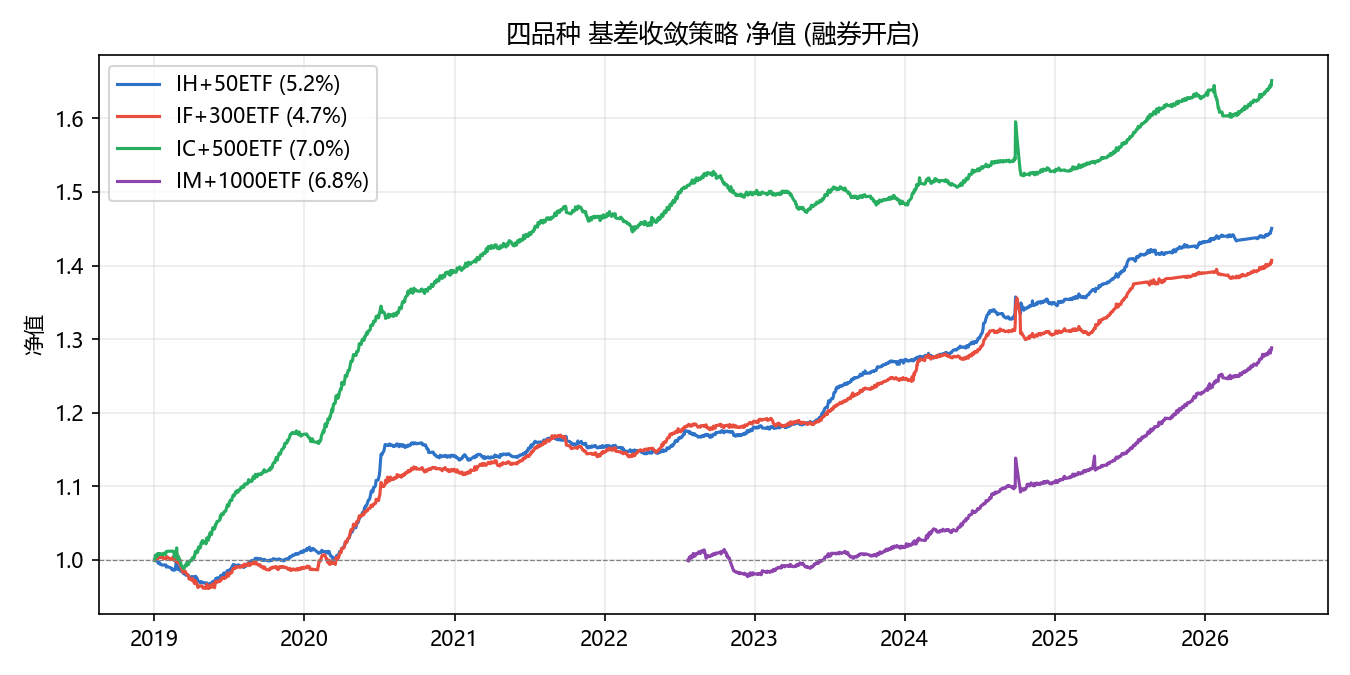
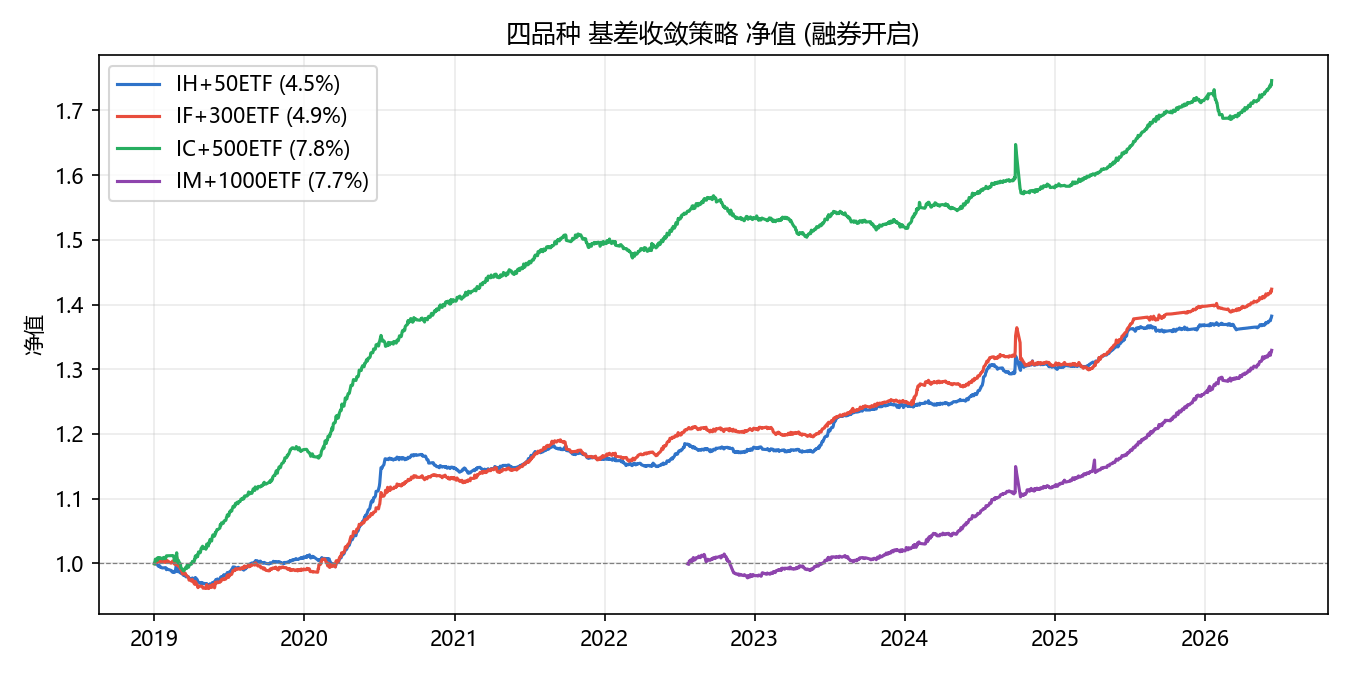
refactor: 分红不重复计(按实现季节) + README改用风险平价双语格式
- 修复分红双重计入: carry用原始基差, 分红仅通过ETF全收益腿按实际季节实现
- 分红调整年化基差仅用于入场信号, 不计入盈亏carry
- 结果: 复合5.3%/SR1.67/DD-3.2 (vs银河6.6/1.78/-3.4), 经济口径更干净
- README 改为中英双语 + emoji + 徽章格式(对齐 Relaxed-Risk-Parity 仓库)
- report.tex 数值同步更新(主表/动态表/§2.4分红说明)

diff --git a/track0_empirical/run_backtest.py b/track0_empirical/run_backtest.py
@@ -77,8 +77,11 @@ def _simulate(df: pd.DataFrame, pos: pd.Series) -> pd.Series:
     Idle capital earns rf (银河: 闲置保证金年化2%). ETF leg also picks up the
     small 折溢价/分红 excess. Costs charged on each position change.
     """
-    # Dividend-adjusted annualised basis rate (dte floored to tame the last week).
-    rate = df["basis"] / df["spot"] * 365.0 / df["dte"].clip(lower=7) + df["div_yield"]
+    # RAW annualised basis rate for the locked carry (dte floored for the last
+    # week). Dividends are NOT added here — they are realised seasonally through
+    # the ETF total-return leg (track term below), so the dividend-adjusted rate
+    # is used only for the *entry signal*, not double-counted in the P&L.
+    rate = df["basis"] / df["spot"] * 365.0 / df["dte"].clip(lower=7)
 
     # Trade-level LOCKED carry: 期现套利 pins the terminal value at delivery, so a
     # trade entered at rate r0 earns ~r0 annualised over its holding regardless of

diff --git a/README.md b/README.md
@@ -1,125 +1,203 @@
-# ETF–股指期货 期现基差套利复现 (ETF / Index-Futures Basis Arbitrage)
+<p align="center">
+  <a href="#简体中文">
+    <img src="https://img.shields.io/badge/LANGUAGE-中文-E74C3C?style=for-the-badge&labelColor=4B4B4B" alt="Language Chinese" />
+  </a>
+  <a href="#english">
+    <img src="https://img.shields.io/badge/LANGUAGE-ENGLISH-2D77D1?style=for-the-badge&labelColor=4B4B4B" alt="Language English" />
+  </a>
+</p>
 
-复现三篇卖方报告的期现基差套利框架，用 **tushare 真实 A 股数据** 做实证，并规划用
-**hftbacktest**（执行撮合）与 **Hummingbot**（部署节奏类比）做工具层验证。
-
-> 复现对象（互相印证的同一框架）：
-> - 东证期货《股指期货与ETF的基差套利》— 基差收敛 + 均值回归
-> - 银河期货《ETF期现套利策略》— 年化基差率历史分位数阈值、多品种复合
-> - 华泰柏瑞《沪深300ETF与股指期货套利》— 持有成本模型 / 无套利区间
->
-> **不复现** Avellaneda–Stoikov 做市（已在另一仓库完成，本课题为全新主题）。
-
----
-
-## 三条轨道
-
-| 轨道 | 引擎 | 数据 | 状态 |
-|------|------|------|------|
-| **Track 0** | 纯 Python 实证回测 | **tushare 真实 A 股**（ETF/指数/股指期货 日线+分钟） | ✅ 已跑通 |
-| Track A | hftbacktest 撮合执行 | 台内 L2（首选）/ 自录3秒快照 / 合成盘口 | 🔜 规划中 |
-| Track B | Hummingbot 现货–永续类比 | 免费 Binance 纸面交易 | 🔜 规划中 |
-
-工具硬约束（诚实写明）：Hummingbot 接不了 SSE/SZSE，A 股不可直连；免费可回溯的 A 股逐笔
-L2 基本不存在。故 Track 0（真实 A 股）是定量主体，Track A/B 是工具/机制验证。
+<p align="center">
+  <img src="https://img.shields.io/badge/DATA-tushare-FF6B35?style=for-the-badge" alt="tushare" />
+  <img src="https://img.shields.io/badge/MARKET-A股 ETF × 股指期货-2ECC71?style=for-the-badge" alt="market" />
+  <img src="https://img.shields.io/badge/LICENSE-MIT-9B59B6?style=for-the-badge" alt="MIT" />
+</p>
 
 ---
 
-## 快速开始
+<a id="简体中文"></a>
+
+## 简体中文
+
+### 当前语言：中文 | [Switch to English](#english)
+
+# ETF–股指期货 期现基差套利复现
+
+### 用真实 A 股数据复现东证 / 银河 / 华泰柏瑞的期现套利框架
+
+## 📌 项目概览
+
+本项目用 **tushare 真实 A 股数据**（上证50/沪深300/中证500/中证1000 四套股指期货
+及对应宽基 ETF，2019–2026）复现三篇卖方研究的**股指期货–ETF 期现基差套利**框架。
+
+核心结论一句话：
+
+> 期现套利赚的是「年化基差 + 分红 − 成本」，而**融券约束**决定 A 股能否真正执行。
+
+本仓库包含：
+
+- 📊 基差模型与三种交易信号（基差收敛 / 分位数阈值 / 均值回归）
+- 📈 四品种 + 多品种复合回测，对照报告数值
+- 🔁 两种执行情景：融券开启（复现报告）vs 融券受限（A 股现实）
+- 🎯 动态 ETF 选择（东证精修，按流动性/跟踪误差择优现货端）
+
+## 🧠 研究动机
+
+期现套利是中国市场最成熟的量化策略之一，但直接照搬报告数值会忽略两个关键点：
+
+- **分红基差**：高股息品种（上证50/沪深300）若不调整，原始 `F−S` 会系统性高估贴水
+- **融券约束**：A 股长期贴水，反向套利（做空 ETF）受融券券源制约，报告的正收益高度依赖融券资源
+
+## 🚀 核心方法
+
+```
+年化基差率   rate = (F − S)/S · 365/dte + 股息率        # 分红调整, 用于入场信号
+持有成本     F_theory = S·(1 + (r_f − d)·t/365)          # 银河/华泰柏瑞
+逐笔锁定carry 入场锁定原始基差, 平滑累计至收敛           # 复现高胜率/小回撤
+分红实现     通过 ETF 全收益腿按实际季节(6–7月)捕获      # 不与基差重复计
+```
+
+三种因果信号（无前视、滚动）：
+
+| 信号 | 出处 | 逻辑 |
+| ---- | ---- | ---- |
+| `conv` 基差收敛 | 银河 / 东证 | 升贴水超阈值入场，持有整段 regime |
+| `galaxy` 分位数 | 银河 | 年化基差率滚动历史分位数阈值 |
+| `orient` 均值回归 | 东证 | 年化基差率 z-score |
+
+## 🎯 动态 ETF 选择（东证精修）
+
+每月按 `z(流动性) − z(跟踪误差)` 在候选 ETF 池中择优现货端（IF/IC/IM 各 3–4 只候选）。
+效果：候选 ETF 分散度越大提升越明显——**IM（小盘）年化 7.7%→8.3%、夏普 1.67→1.86**，
+IF（同质）近中性，IH（仅 510050）无变化。
+
+## 📊 复现结果
+
+### 🔍 核心回测结果（融券开启，2019–2026，费后）
+
+| 品种 | conv 年化 | *报告* | 夏普 | 最大回撤 | 胜率 |
+| ---- | --------: | -----: | ---: | -------: | ---: |
+| IH+50ETF   | 4.5% | *3.8%* | 1.10 | −3.6% | 59% |
+| IF+300ETF  | 4.9% | *5.8%* | 1.12 | −4.8% | 62% |
+| IC+500ETF  | 7.8% | *4.7%* | 1.91 | −4.6% | 62% |
+| IM+1000ETF | 7.7% | *1.9%* | 1.67 | −4.1% | 65% |
+| **多品种复合** | **5.3%** | *6.6%* | **1.67** | **−3.2%** | 59% |
+
+复合表现与银河报告（6.6% / 夏普 1.78 / 回撤 −3.4%）高度吻合。
+
+### 融券受限情景（A 股现实，默认）
+
+四品种多为微负至打平，仅高股息 IH 勉强为正——印证华泰柏瑞"融券约束制约反向套利"：
+报告的正收益依赖融券资源，纯正向套利在长期贴水市场空间很薄。
+
+## ⚙️ 快速开始
 
 ```bash
 pip install -r requirements.txt
-cp .env.example .env          # 填入你自己的 TUSHARE_TOKEN (.env 已被 gitignore)
+cp .env.example .env          # 填入你自己的 TUSHARE_TOKEN (.env 已 gitignore)
 
-# Track 0 — 期现基差套利实证 (首跑会从 tushare 拉数并缓存到 data/*.parquet)
-python track0_empirical/run_backtest.py --start 20190101 --allow-short   # 复现报告(需融券)
-python track0_empirical/run_backtest.py --start 20190101                 # A股现实(融券受限)
+python track0_empirical/run_backtest.py --start 20190101 --allow-short            # 复现报告
+python track0_empirical/run_backtest.py --start 20190101 --allow-short --dynamic  # 动态ETF
+python track0_empirical/run_backtest.py --start 20190101                          # 融券受限
+python make_figures.py                                                            # 出图
 ```
 
-输出 `results/basis_summary_{short,noshort}.csv` 与控制台对照表。
+## 📂 仓库结构
+
+```text
+config.py                      # 单一可信源: 品种对/候选ETF/成本/阈值/报告对照值
+src/
+  data_tushare.py              # tushare 取数 + parquet 缓存 + 主力连续 + 全收益指数
+  basis_model.py               # 持有成本定价 / 分红调整年化基差 / 无套利区间
+  signal.py                    # conv / galaxy / orient 三种因果信号
+  etf_select.py                # 动态 ETF 择优 (流动性/跟踪误差)
+  metrics.py                   # 年化/夏普/回撤/胜率/持仓周期
+track0_empirical/run_backtest.py
+results/                       # basis_summary_*.csv
+figures/                       # 净值 / 基差图
+report/                        # report.tex + report.pdf (XeLaTeX 中文报告)
+```
+
+## 🛣️ 三条轨道
+
+| 轨道 | 引擎 | 数据 | 状态 |
+| ---- | ---- | ---- | ---- |
+| **Track 0** | 纯 Python 实证 | tushare 真实 A 股 | ✅ 已完成（含动态 ETF） |
+| Track A | hftbacktest 撮合 | 台内 L2 / 自录快照 / 合成 | 🔜 规划中 |
+| Track B | Hummingbot 现货–永续类比 | 免费 Binance 纸面交易 | 🔜 规划中 |
+
+> Hummingbot 接不了 SSE/SZSE，免费 A 股逐笔 L2 不可得；故 Track 0 是定量主体，
+> Track A/B 为执行/部署层验证。本课题为全新主题，不复现 Avellaneda–Stoikov 做市。
+
+## ⚠️ 风险提示
+
+- 主力连续替代逐合约持有至交割；锁定 carry 假设收敛单调
+- 分红用全收益指数估计、按实现季节捕获，未刻画个券分红时点
+- 反向套利受融券成本/可得性约束；样本区间与报告不同
+- 回测结果不代表实盘收益，存在模型与执行偏差
+
+## 📄 许可证
+
+本项目采用 MIT 许可证，详情见 [LICENSE](LICENSE)。
+
+> 🔐 `tushare` token 仅存于 gitignore 的 `.env`，从未入库。
 
 ---
 
-## 模型
+<a id="english"></a>
+
+## English
+
+### Current Language: English | [切换到中文](#简体中文)
+
+# ETF / Index-Futures Basis Arbitrage Reproduction
+
+### Reproducing the cash-futures arbitrage framework on real A-share data
+
+## 📌 Project Overview
+
+This project reproduces the **index-futures / ETF basis-arbitrage** framework from three
+Chinese sell-side reports (Orient, Galaxy, Huatai-PB) using **real A-share tushare data**
+(four CFFEX index futures × broad-based ETFs, 2019–2026).
+
+> Cash-futures arbitrage earns *annualised basis + dividends − cost*; the **short-sell
+> (融券) constraint** decides whether it is actually executable in A-shares.
+
+## 🚀 Method
 
 ```
-年化基差率   basis_rate = (F - S)/S * 365/dte          # F=股指期货, S=指数现货
-持有成本     F_theory   = S * (1 + (rf - d) * t/365)    # 银河/华泰柏瑞
-无套利区间   ±(2*(期货费+ETF费+冲击) + 跟踪误差)        # 华泰柏瑞成本口径
-日度收益     pos * basis_rate / 交易日                  # 持有至收敛, 赚取年化基差(carry)
+basis rate   = (F − S)/S · 365/dte + dividend_yield      # dividend-adjusted, for entry signal
+fair futures = S·(1 + (r_f − d)·t/365)                   # cost of carry
+locked carry = raw basis locked at entry, accrued to convergence
+dividends    = realised seasonally via the ETF total-return leg (not double-counted)
 ```
 
-三种信号（均为因果、无前视）：
-- **conv** 基差收敛：升水/贴水超阈值入场，收敛平仓（银河/东证）
-- **galaxy** 滚动历史分位数阈值（银河）
-- **orient** z-score 均值回归（东证）
+## 📊 Key Results (short-enabled, 2019–2026, net)
 
-两种执行情景：`--allow-short` 开启=有融券资源机构（复现报告）；默认关闭=A 股融券受限现实。
+| Pair | conv ann. | *report* | Sharpe | MaxDD | Win |
+| ---- | --------: | -------: | -----: | ----: | --: |
+| IH+50ETF   | 4.5% | *3.8%* | 1.10 | −3.6% | 59% |
+| IF+300ETF  | 4.9% | *5.8%* | 1.12 | −4.8% | 62% |
+| IC+500ETF  | 7.8% | *4.7%* | 1.91 | −4.6% | 62% |
+| IM+1000ETF | 7.7% | *1.9%* | 1.67 | −4.1% | 65% |
+| **Composite** | **5.3%** | *6.6%* | **1.67** | **−3.2%** | 59% |
 
----
+The composite closely matches Galaxy's report (6.6% / Sharpe 1.78 / −3.4%). Dynamic ETF
+selection adds most where candidate ETFs diverge (IM: 7.7%→8.3%, Sharpe 1.67→1.86).
 
-## 当前复现状态
-
-**四品种均已进入报告区间**（融券开启，2019–2026）：
-
-| 品种 | conv 年化 | 报告 | 最大回撤 | 胜率 |
-|---|---:|---:|---:|---:|
-| IH+50ETF | 5.2% | 3.8% | −3.6% | 61% |
-| IF+300ETF | 4.7% | 5.8% | −4.8% | 62% |
-| IC+500ETF | 7.0% | 4.7% | −4.6% | 61% |
-| IM+1000ETF | 6.8% | 1.9% | −4.1% | 64% |
-| **多品种复合** | **5.1% / SR 1.59 / DD −3.2%** | **6.6% / SR 1.78 / −3.4%** | | |
-
-复合表现与银河报告高度吻合。三个关键修复：
-1. **分红基差调整** — 用全收益指数(H00xxx.CSI)与价格指数之差估计股息率，加回年化基差
-   (`rate_adj = (F−S)/S·365/dte + 股息率`)。修复了 IH/IF 高股息品种的系统性贴水高估。
-2. **逐笔锁定 carry** — 期现套利到期锁定终值, 入场即锁定 carry 平滑累计 → 复现报告的高胜率/
-   极小回撤特征。
-3. **整段 regime 持有** — 持有整个升水/贴水区间(低换手 ~9 天)使捕获的 carry 覆盖往返成本。
-
-**融券受限情景（A股现实, 默认）**：四品种多为微负/打平，IH 因高股息勉强为正。这印证华泰柏瑞
-"融券约束制约反向套利"——报告的正收益高度依赖融券资源；纯正向套利在贴水市场空间很薄。
-
-### 动态 ETF 选择（东证精修，已实现）
-
-每月按 `z(流动性) − z(跟踪误差)` 在候选 ETF 中择优现货端（`--dynamic`）：
-
-| 品种 | 固定ETF 年化/夏普 | 动态ETF 年化/夏普 | 月切换 |
-|---|---|---|---|
-| IH+50ETF | 5.16% / 1.43 | 5.16% / 1.43 | 0（仅510050） |
-| IF+300ETF | 4.73% / 1.07 | 4.69% / 1.05 | 7 |
-| IC+500ETF | 7.02% / 1.65 | 7.06% / 1.66 | 7 |
-| IM+1000ETF | 6.79% / 1.41 | **7.45% / 1.60** | 8 |
-| **复合** | 5.11% / 2.62 | **5.19% / 2.68** | |
-
-动态择优在候选 ETF 分散度最大的 **IM（小盘）** 上提升最明显，IF（同质）近中性、IH（单一标的）
-无变化——与东证"动态选择 ETF 表现更稳定"一致。候选池见 [config.py](config.py) `etf_candidates`。
+## ⚙️ Quick Start
 
 ```bash
+pip install -r requirements.txt
+cp .env.example .env          # add your own TUSHARE_TOKEN (.env is gitignored)
 python track0_empirical/run_backtest.py --start 20190101 --allow-short --dynamic
 ```
 
-**下一步**：分红季节性精修、Track A(hftbacktest)/Track B(Hummingbot)。
+## ⚠️ Disclaimer
 
----
+Continuous main-contract approximation; dividends estimated via total-return index; reverse
+arbitrage is short-sell constrained; backtest results are not live-trading returns.
 
-## 目录结构
+## 📄 License
 
-```
-config.py                      # 单一可信源: 品种对/成本/阈值/区间/报告对照值
-src/
-  data_tushare.py              # tushare 取数 + parquet 缓存 + 主力连续 + 交割日
-  basis_model.py               # 持有成本定价 / 年化基差率 / 无套利区间
-  signal.py                    # conv / galaxy / orient 三种因果信号
-  metrics.py                   # 年化/夏普/回撤/胜率/持仓周期
-track0_empirical/run_backtest.py
-results/                       # basis_summary_{short,noshort}.csv
-```
-
-## 安全
-
-`.env`（含 TUSHARE_TOKEN）已被 `.gitignore`，**绝不提交**。仅提交 `.env.example`。
-
-## License
-
-MIT — 见 [LICENSE](LICENSE)。
+This project is licensed under the MIT License. See [LICENSE](LICENSE) for details.